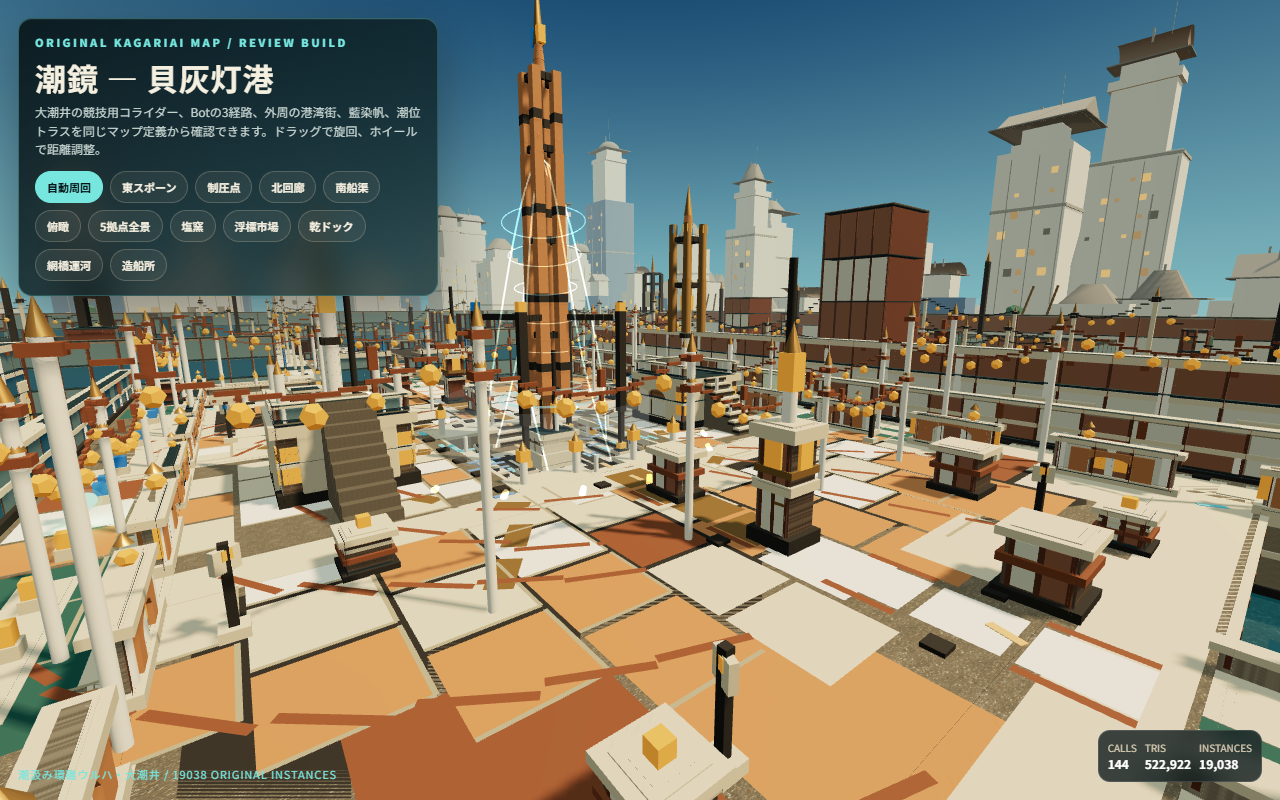
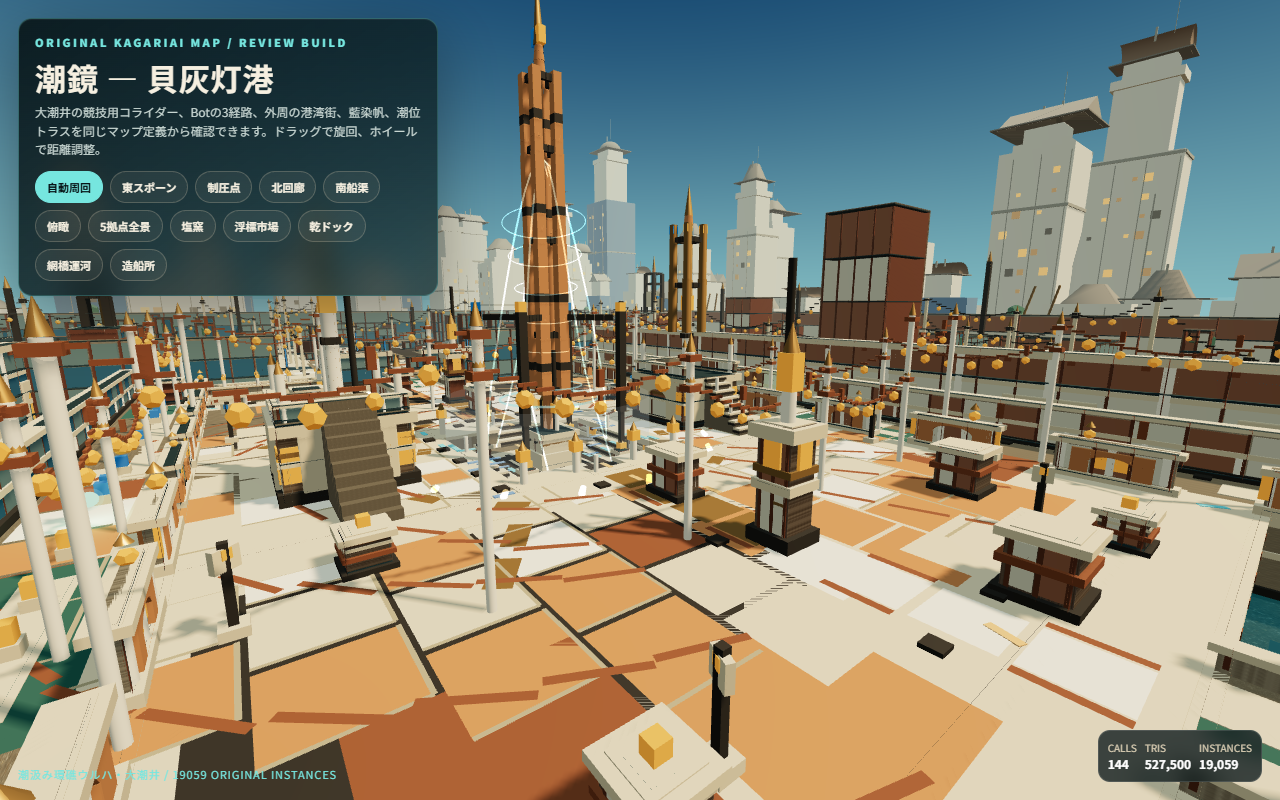
feat(map): widen facade openings, and correct the core-tree rejection reason
Broadens the upper arch band on ring stores. It was gated behind
tier >= 1 && r2 > 0.45, so about a third of the harbour blocks carried a
single opening band and read as a flat box with painted trim. Every store
gets one now, with the inset varying by tier so upper and lower openings do
not line up into a grid.

The gain was small - 21 instances, 4,578 triangles - which surfaced the real
problem: clad-market-arch, the layer absorbing both market-arch and
ring-arch, holds only 32 instances across the whole ring. The arch
vocabulary is barely reaching the 178 harbour buildings. That is the lead
for the next pass.

Corrects the record on the core trees. 4a7bcaa said they were rejected
because bot navigation blew its wall budget, worst-case think rising from
441ms to 2,488ms. That measurement was taken while headless Chrome was
rendering map views on the same machine, and --max-wall-sec is wall-clock.
Re-measured unloaded, the trees complete the acceptance match at 37-39s
against a 90s budget with worst-case think at 577-640ms. There is no
planner blocker.

The trees are still reverted, for a different and better reason: they fail
the mirrored-matchup balance test with fixed seeds, one-sided at 1:6 and
5:0. Cover in the central arena needs balance iteration and a human
playtest.

Measured after: 875 tests passing, collision digest unchanged, 30/30 routes,
0 fake-cover clusters.

diff --git a/shared/data/map_oshioi_site_cladding.js b/shared/data/map_oshioi_site_cladding.js
@@ -721,8 +721,19 @@ function cladRingStore(b, seed) {
   const faceKey = ['ring-arch', 'ring-colonnade', 'ring-lattice'][seed % 3];
   inner(b, faceKey, { inset: 0.1, from: 0, to: tall ? 0.5 : 0.6 });
   // アーチ帯を上階にもう一段（原則7の曲線開口を増やす。archWall は218三角形と安い）
-  if (tier >= 1 && r2 > 0.45) {
-    inner(b, 'ring-arch', { inset: 0.34, from: tall ? 0.54 : 0.64, to: 0.8 });
+  //
+  // 実画面の検証で、街区は「平らな面に細い帯を描いた箱」に見えていた。壁面に
+  // 凹んだ開口が無く、影が出る場所が帯の下しか無いのが原因。上階のアーチ帯は
+  // tier>=1 かつ r2>0.45 の棟にしか出ておらず、178棟のうち約3割しか届いていなかった。
+  //
+  // 全棟へ広げる。三角形は archWall=218/個 で、予算は 522,922/1,200,000 と余裕がある。
+  // inset は棟の高さ段で変え、上階の開口が下階と同じ面に揃って「格子の壁」に
+  // 見えないようにする。
+  if (tier >= 1) {
+    inner(b, 'ring-arch', { inset: r2 > 0.45 ? 0.34 : 0.52, from: tall ? 0.54 : 0.64, to: 0.8 });
+  } else {
+    // 小屋は上階が無いので、軒下に浅い開口帯を1本だけ入れる。
+    inner(b, 'ring-arch', { inset: 0.46, from: 0.62, to: 0.78 });
   }
   // 丸屋根の庇（barrelRoof を庇として横に使う。曲線要素の増量）
   if (r2 < 0.55) {

diff --git a/outputs/AAA_MAP_EVIDENCE_20260802.md b/outputs/AAA_MAP_EVIDENCE_20260802.md
@@ -126,7 +126,19 @@ cultural motifs, so curvature comes from barrel vaults instead.
    space on the map, and square posts were the strongest greybox tell at eye level.
    Cost: `+15,932` triangles, exactly as predicted, no new layer, no new draw call.
 
-All three changes are presentation-only. Collision, routes, and the authored
+4. **Facade openings.** The upper arch band on ring stores was gated behind
+   `tier >= 1 && r2 > 0.45`, so roughly a third of the harbour blocks had a single
+   opening band and read as a flat box with painted trim. It now runs on every
+   store, with the inset varying by tier so upper and lower openings do not line up
+   into a grid, and tier-0 sheds get one shallow band under the eaves.
+   Cost: `+21` instances, `+4,578` triangles, no new layer, no new draw call.
+
+   This produced far less than expected, which is itself a finding: `clad-market-arch`
+   — the layer that absorbs both `market-arch` and `ring-arch` — holds only **32
+   instances across the entire ring**. The arch vocabulary is barely reaching the 178
+   harbour buildings, and finding out why is the highest-value lead for the next pass.
+
+All four changes are presentation-only. Collision, routes, and the authored
 collision digest are untouched, and the fake-cover cluster count is still `0`.
 
 ### Rejected: trees inside the playable core
@@ -137,22 +149,43 @@ existing `insideCore()` guard was relaxed only for individually authored,
 180°-symmetric coordinates that passed every route/spawn/overlap/boost check).
 
 They passed route safety (30/30, zero unsafe segments) and the fake-cover audit
-(0 clusters), but **they broke bot navigation performance** and were reverted.
-Measured on the acceptance match (`--seed 20260719 --match-index 1`):
+(0 clusters), but were reverted because they **change fight outcomes**.
 
-| | baseline | with 6 core trees |
+`tests/hero_bots.test.js` — "three competitive matchups pass on both mirrored
+sides with paired seeds" — failed with the trees in place:
+
+```
+match 1: global combat kills were one-sided at 1:6
+match 4: global combat kills were one-sided at 5:0
+```
+
+Those matchups use fixed seeds, so the result is deterministic and reproducible,
+and the same test passes with the trees removed. Six pieces of body-height cover
+in the central arena were enough to tip two of the three audited matchups past the
+one-sidedness guard. Placement needs balance iteration and a human playtest, which
+is exactly the gate this project already declares — not something to decide from a
+screenshot.
+
+**Correction.** An earlier version of this document, and the commit message of
+`4a7bcaa`, attributed the rejection to bot-navigation *performance*: the
+acceptance match hitting `wall_clock_budget_exhausted` with worst-case bot think
+rising from 441 ms to 2,488 ms. That measurement was wrong. It was taken while a
+headless Chrome instance was rendering map views on the same machine, and the
+`--max-wall-sec 90` budget is wall-clock and therefore load-sensitive. Re-measured
+on an unloaded machine:
+
+| | without core trees | with 6 core trees |
 |---|---:|---:|
-| wall elapsed | 72.2 s | 90.0 s (budget exhausted) |
-| bot think total | 62.3 s | 79.0 s |
-| **worst single bot think** | **441 ms** | **2,488 ms** |
-| final state | `MATCH_END` | `ACTIVE`, `wall_clock_budget_exhausted` |
+| wall elapsed | 31.5 s | 37.3 s / 39.5 s (two runs) |
+| worst single bot think | 229 ms | 640 ms / 577 ms |
+| final state | `MATCH_END` | `MATCH_END`, `failures=0` |
 
-The worst-case planner tick went up 5.6×, with the slowest think landing on a bot
-in `regroup` mode on the shallows route. The bot planner degrades sharply when
-obstacles appear near route corridors, and the baseline already spends 86% of its
-wall budget inside bot thinking. **The core cannot accept new collision until that
-planner cost is addressed** — this is a prerequisite work item, not a map-art
-decision. Raising `--max-wall-sec` would have hidden a real regression.
+The trees do cost roughly 19% more wall time, but they stay well inside the 90 s
+budget and the acceptance match completes. There is no bot-planner blocker. The
+blocker is competitive balance, and it is a different and more interesting problem.
+
+Any future performance number from `tools/headless.js --max-wall-sec` must be taken
+with no browser capture running, or it measures the machine rather than the map.
 
 ## Art observations from the captured views — for the human art pass
 
